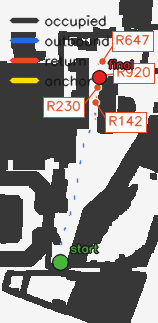
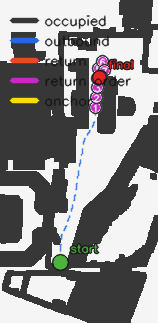
Tune route map dashes and return markers

diff --git a/code/topdown_route_map.py b/code/topdown_route_map.py
@@ -237,7 +237,7 @@ def _draw_return_timestamps(
     return_records: list[dict],
     meta: dict,
     color: tuple[int, int, int],
-    max_labels: int = 6,
+    max_labels: int = 10,
 ) -> None:
     if len(return_records) < 2 or max_labels <= 0:
         return
@@ -260,7 +260,7 @@ def _draw_return_timestamps(
     total_distance = cumulative[-1]
     if total_distance < 1.0:
         return
-    sample_count = min(max_labels, max(1, int(total_distance // 18)))
+    sample_count = min(max_labels, max(1, int(total_distance // 12)))
     targets = np.linspace(
         total_distance / float(sample_count + 1),
         total_distance * sample_count / float(sample_count + 1),
@@ -268,51 +268,20 @@ def _draw_return_timestamps(
         dtype=np.float32,
     )
     sample_indices = [int(np.searchsorted(cumulative, float(target))) for target in targets]
-    used_boxes: list[tuple[int, int, int, int]] = [(0, 0, 108, 92)]
-    offsets = [(10, -12), (-54, -12), (10, 10), (-54, 10), (10, -30), (-54, -30)]
-    def overlaps(box: tuple[int, int, int, int]) -> bool:
-        x0, y0, x1, y1 = box
-        for ox0, oy0, ox1, oy1 in used_boxes:
-            if x0 <= ox1 and x1 >= ox0 and y0 <= oy1 and y1 >= oy0:
-                return True
-        return False
-
     for label_idx, record_idx in enumerate(sample_indices):
-        record = valid_records[min(int(record_idx), len(valid_records) - 1)]
-        step = int(record.get("step", first_step))
-        elapsed = step - first_step
         px, py = pixel_points[min(int(record_idx), len(pixel_points) - 1)]
-        label = f"R{elapsed}"
-        (text_w, text_h), baseline = cv2.getTextSize(label, cv2.FONT_HERSHEY_SIMPLEX, 0.42, 1)
-        chosen = None
-        for dx, dy in offsets[label_idx % len(offsets):] + offsets[:label_idx % len(offsets)]:
-            box_x0 = px + dx
-            box_y0 = py + dy
-            box_x0 = max(1, min(image.shape[1] - text_w - 8, box_x0))
-            box_y0 = max(1, min(image.shape[0] - text_h - baseline - 7, box_y0))
-            box_x1 = box_x0 + text_w + 6
-            box_y1 = box_y0 + text_h + baseline + 6
-            box = (box_x0, box_y0, box_x1, box_y1)
-            if not overlaps(box):
-                chosen = box
-                break
-        if chosen is None:
-            continue
-        box_x0, box_y0, box_x1, box_y1 = chosen
-        used_boxes.append(chosen)
-        cv2.circle(image, (px, py), 3, color, -1, lineType=cv2.LINE_AA)
-        cv2.circle(image, (px, py), 4, (255, 255, 255), 1, lineType=cv2.LINE_AA)
-        line_x = box_x0 + 3 if (box_x0 + box_x1) * 0.5 >= px else box_x1 - 3
-        cv2.line(image, (px, py), (int(line_x), box_y0 + text_h), color, 1, cv2.LINE_AA)
-        cv2.rectangle(image, (box_x0, box_y0), (box_x1, box_y1), (255, 255, 255), -1)
-        cv2.rectangle(image, (box_x0, box_y0), (box_x1, box_y1), color, 1)
+        label = str(label_idx + 1)
+        radius = 4
+        cv2.circle(image, (px, py), radius + 2, (255, 255, 255), -1, lineType=cv2.LINE_AA)
+        cv2.circle(image, (px, py), radius + 2, (20, 20, 20), 1, lineType=cv2.LINE_AA)
+        cv2.circle(image, (px, py), radius, color, -1, lineType=cv2.LINE_AA)
         cv2.putText(
             image,
             label,
-            (box_x0 + 3, box_y1 - baseline - 3),
+            (px - 3 if len(label) == 1 else px - 6, py + 4),
             cv2.FONT_HERSHEY_SIMPLEX,
-            0.42,
-            color,
+            0.30,
+            (255, 255, 255),
             1,
             cv2.LINE_AA,
         )
@@ -387,9 +356,9 @@ def render_route_overlay(
         [float(r["position"][0]), float(r["position"][1])]
         for r in return_records
     ]
-    _dashed_polyline(image, outbound, meta, (230, 105, 35), thickness=1, dash_px=4.0, gap_px=16.0)
-    _dashed_polyline(image, ret, meta, (35, 75, 230), thickness=1, dash_px=4.0, gap_px=16.0)
-    _draw_return_timestamps(image, return_records, meta, (35, 75, 230))
+    _dashed_polyline(image, outbound, meta, (230, 105, 35), thickness=1, dash_px=8.0, gap_px=5.0)
+    _dashed_polyline(image, ret, meta, (35, 75, 230), thickness=1, dash_px=8.0, gap_px=5.0)
+    _draw_return_timestamps(image, return_records, meta, (200, 40, 200))
 
     anchors = (route_memory_summary or {}).get("anchors") or []
     for anchor in anchors:
@@ -414,6 +383,7 @@ def render_route_overlay(
         ((55, 55, 55), "occupied"),
         ((230, 105, 35), "outbound"),
         ((35, 75, 230), "return"),
+        ((200, 40, 200), "return order"),
         ((0, 220, 255), "anchor"),
     ]
     for idx, (color, label) in enumerate(legend):
